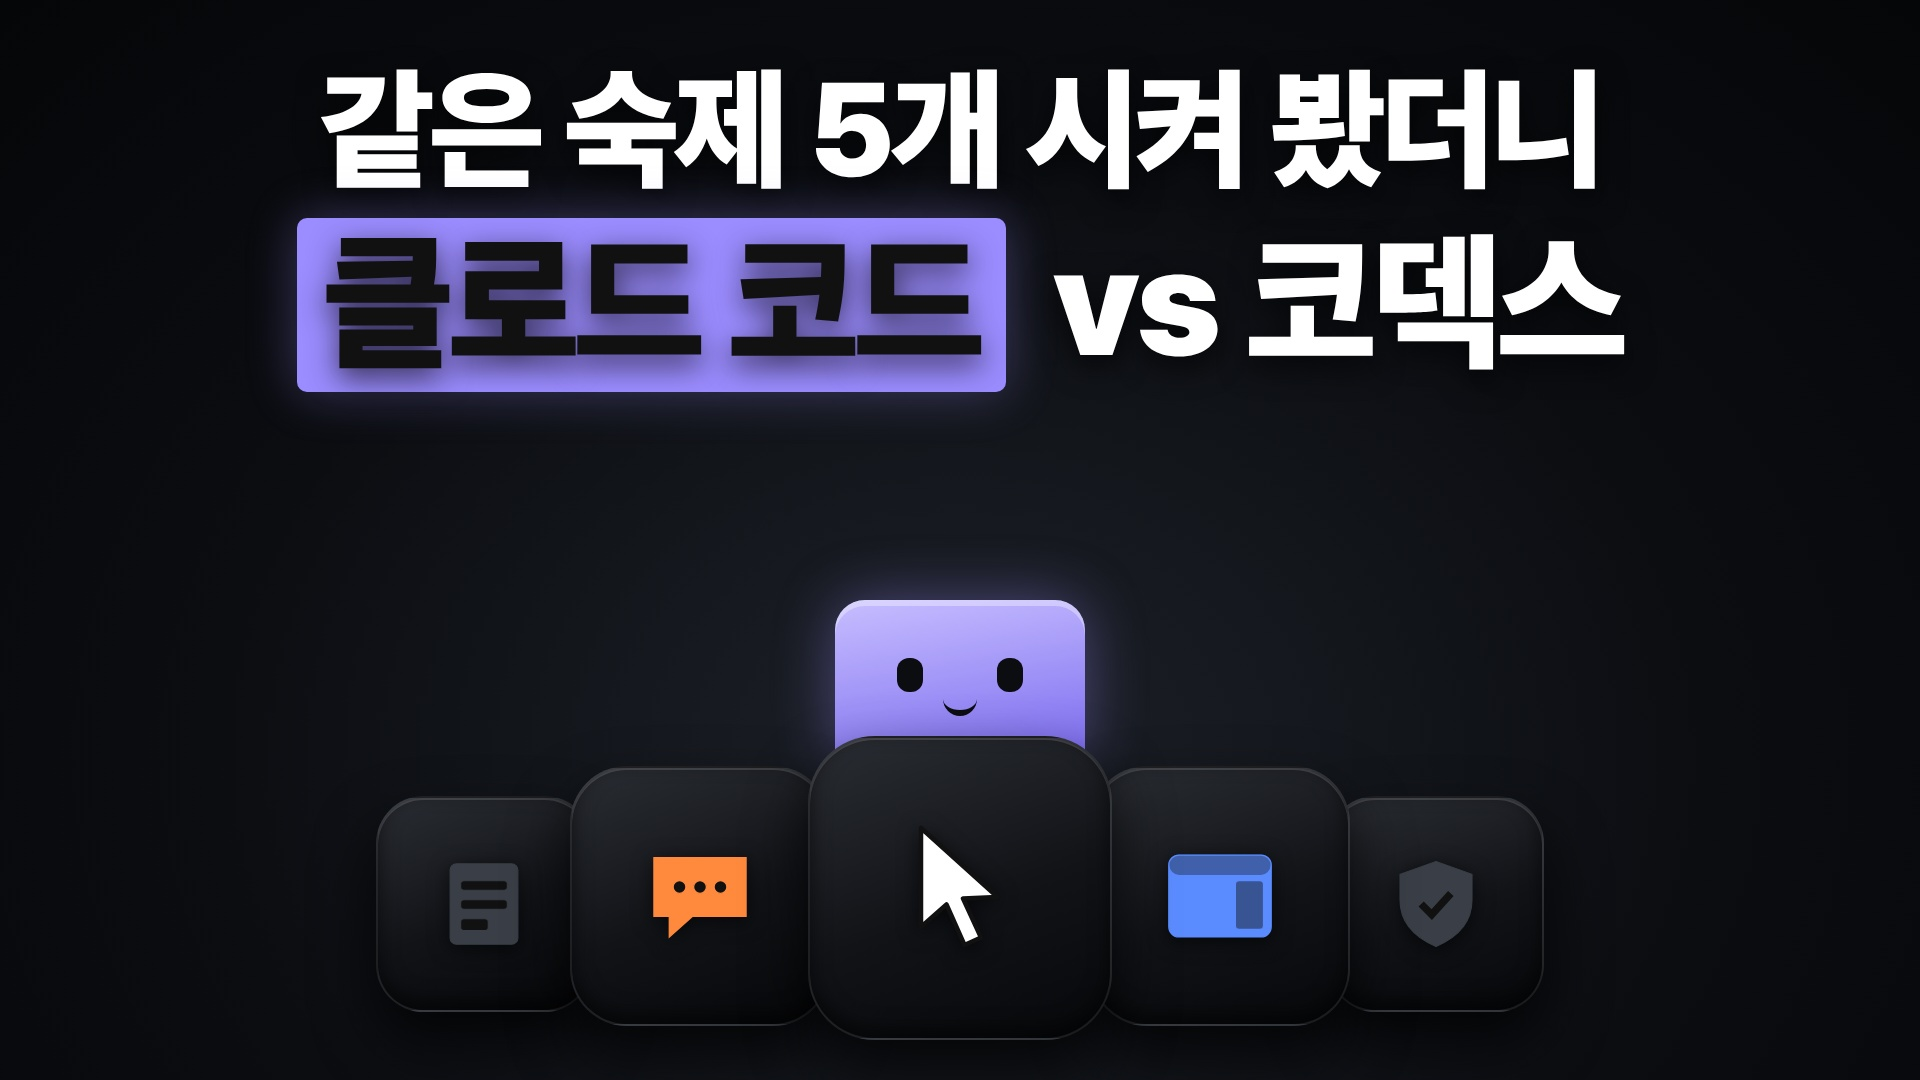
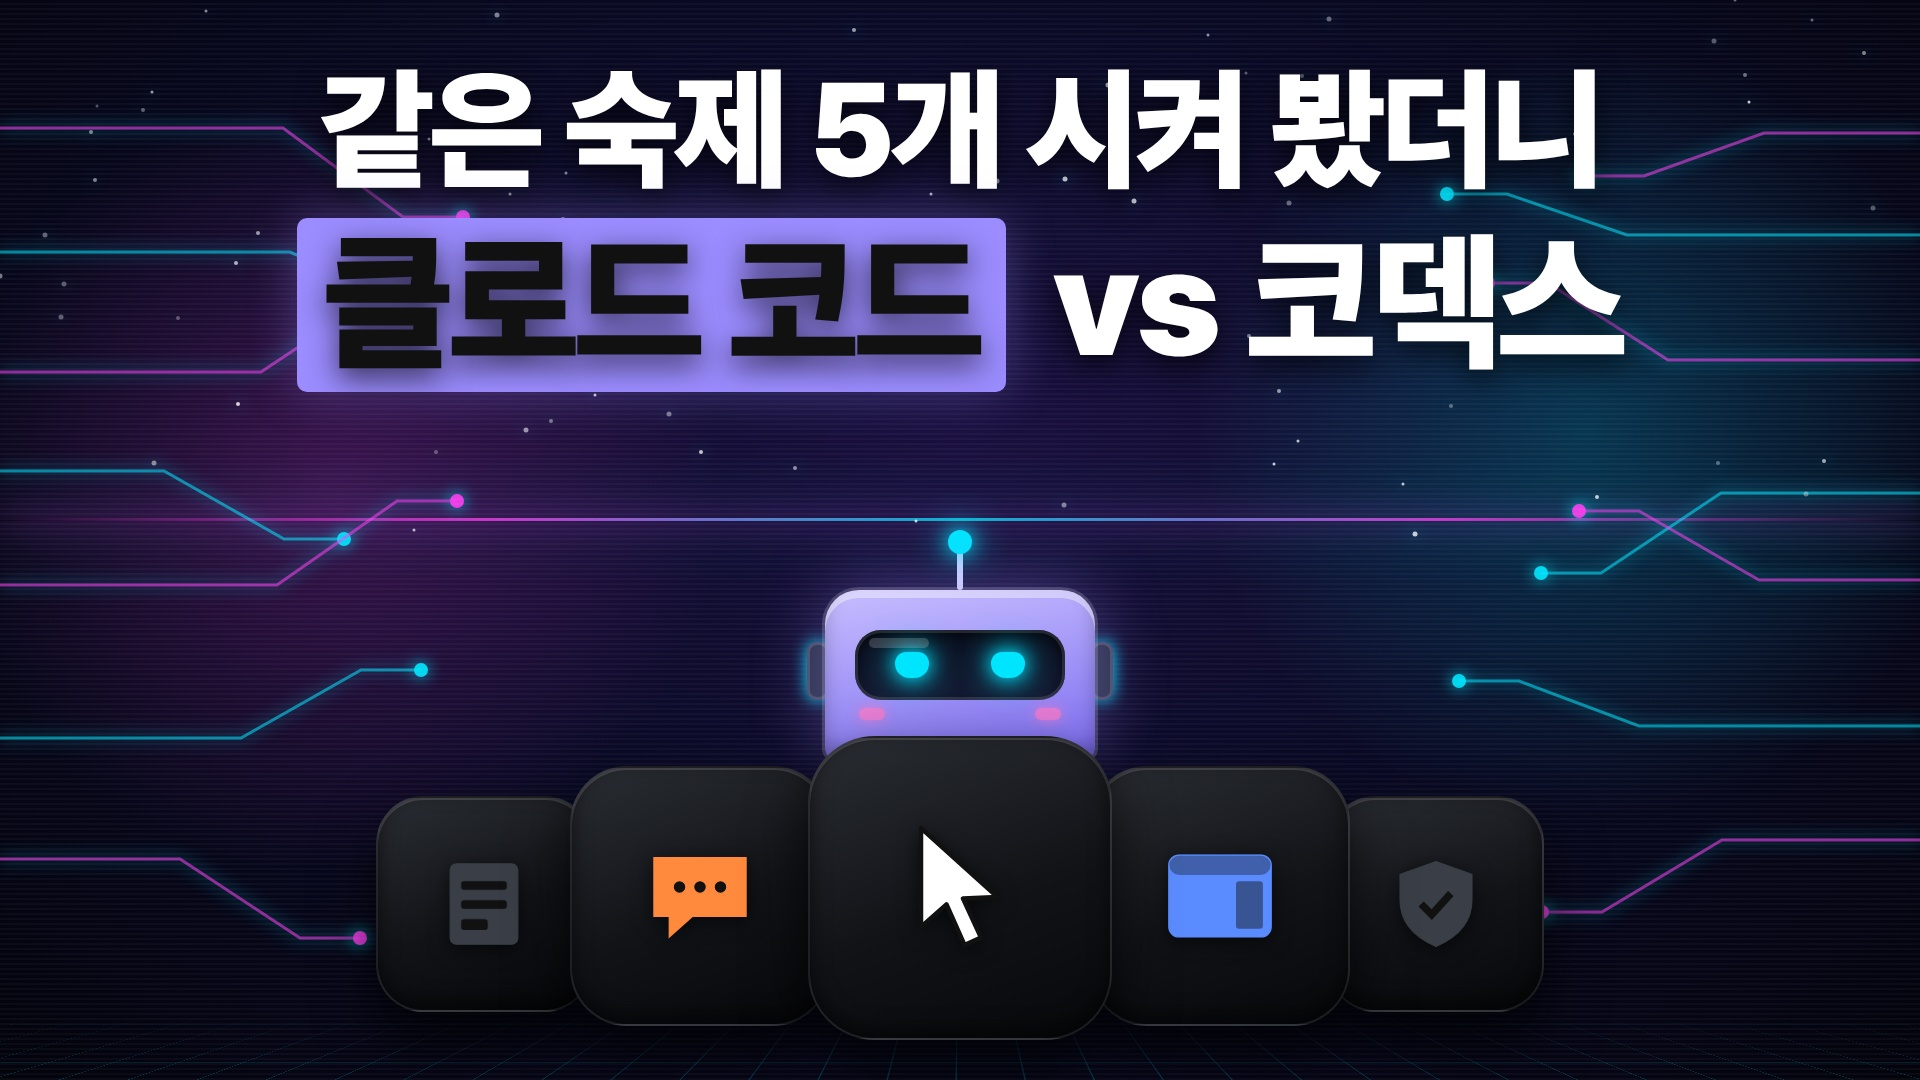
코덱스 비교 v4: 사이버 배경·클로드봇 v2 썸네일(thumbnail.py bg_style cyber · bot v2)
Claude-Session: https://claude.ai/code/session_01QAwgc5CgfRqDU2a4ySE2yW

diff --git a/facetube/thumbnail.py b/facetube/thumbnail.py
@@ -114,12 +114,69 @@ html,body{{margin:0;width:{W}px;height:{H}px;overflow:hidden;font-family:K,sans-
 #pal i{{position:absolute;top:58px;width:26px;height:34px;background:#0b0d11;border-radius:12px}}
 #pal i:first-child{{left:62px}} #pal i:last-child{{right:62px}}
 #pal b{{position:absolute;top:96px;left:50%;transform:translateX(-50%);width:34px;height:14px;border-bottom:6px solid #0b0d11;border-radius:0 0 20px 20px}}
+{_cyber_css(t, accent) if t.get('bg_style') == 'cyber' else ''}{_bot2_css(t) if t.get('bot') == 'v2' else ''}
 </style></head><body>
+{_cyber_html(t) if t.get('bg_style') == 'cyber' else ''}
 <div id="top"><div><span class="l" id="l1">{_mk(t.get('line1', ''), accent)}</span></div><div><span class="l" id="l2">{l2}</span></div><div>{mid_line}</div></div>
-{'<div id="pal"><i></i><b></b><i></i></div>' if t.get('mascot', True) else ''}
+{(_BOT2_HTML if t.get('bot') == 'v2' else '<div id="pal"><i></i><b></b><i></i></div>') if t.get('mascot', True) else ''}
 <div id="row">{''.join(cells)}</div>
 <script>for(const id of ['l1','l2','lm']){{const e=document.getElementById(id);if(!e)continue;let f=parseFloat(getComputedStyle(e).fontSize);while(e.scrollWidth>{W - 160}&&f>60){{f-=4;e.style.fontSize=f+'px'}}}}</script>
 </body></html>"""
+
+
+# ── 사이버 배경(2026-11-05 현철님: "썸네일을 사이버틱하게") · 클로드봇 v2(바이저·안테나·귀·볼 불빛)
+def _cyber_css(t, accent):
+    c1 = t.get("cyber_c1", "#00E5FF"); c2 = t.get("cyber_c2", "#FF3DF2")
+    return f"""
+html,body{{background:radial-gradient(ellipse at 50% 40%,{t.get('cyber_bg1', '#1A1040')} 0%,{t.get('cyber_bg2', '#0A0A26')} 45%,#03030C 100%)!important}}
+#cy{{position:absolute;inset:0;overflow:hidden}}
+#cy .floor{{position:absolute;left:-30%;right:-30%;bottom:-8%;height:62%;transform:perspective(700px) rotateX(62deg);transform-origin:50% 100%;
+  background-image:linear-gradient({c1}55 2px,transparent 2px),linear-gradient(90deg,{c1}55 2px,transparent 2px);background-size:90px 90px;
+  -webkit-mask-image:linear-gradient(to top,#000 10%,transparent 85%);mask-image:linear-gradient(to top,#000 10%,transparent 85%)}}
+#cy .hz{{position:absolute;left:0;right:0;top:48%;height:3px;background:linear-gradient(90deg,transparent,{c2},{c1},{c2},transparent);box-shadow:0 0 30px {c2},0 0 60px {c1};opacity:.75}}
+#cy .glowL{{position:absolute;left:-10%;top:10%;width:55%;height:70%;background:radial-gradient(circle,{c2}33,transparent 60%)}}
+#cy .glowR{{position:absolute;right:-10%;top:5%;width:55%;height:70%;background:radial-gradient(circle,{c1}33,transparent 60%)}}
+#cy .scan{{position:absolute;inset:0;background:repeating-linear-gradient(0deg,rgba(255,255,255,.035) 0 2px,transparent 2px 5px)}}
+#cy svg{{position:absolute;inset:0}}
+"""
+
+def _cyber_html(t):
+    import random
+    c1 = t.get("cyber_c1", "#00E5FF"); c2 = t.get("cyber_c2", "#FF3DF2")
+    r = random.Random(11); paths = []
+    for side in (0, 1):                                   # 양옆 회로선(가운데 글자는 피함)
+        for k in range(7):
+            y = 120 + k * 120 + r.randint(-20, 20); x0 = 0 if side == 0 else W
+            dx = r.randint(140, 300); turn = r.randint(40, 90) * (1 if r.random() < .5 else -1)
+            x1 = dx if side == 0 else W - dx; x2 = (x1 + 120) if side == 0 else (x1 - 120)
+            col = c1 if k % 2 else c2
+            paths.append(f'<path d="M{x0},{y} H{x1} L{x2},{y + turn} H{x2 + (60 if side == 0 else -60)}" stroke="{col}" stroke-width="3" fill="none" opacity=".55"/>'
+                         f'<circle cx="{x2 + (60 if side == 0 else -60)}" cy="{y + turn}" r="7" fill="{col}" opacity=".9"/>')
+    dots = "".join(f'<circle cx="{r.randint(0, W)}" cy="{r.randint(0, int(H * .5))}" r="{r.choice([1.5, 2, 2.5])}" fill="#fff" opacity="{r.uniform(.3, .8):.2f}"/>' for _ in range(70))
+    return (f'<div id="cy"><div class="glowL"></div><div class="glowR"></div><div class="floor"></div><div class="hz"></div>'
+            f'<svg viewBox="0 0 {W} {H}" width="{W}" height="{H}" style="filter:drop-shadow(0 0 8px {c1})">{"".join(paths)}{dots}</svg><div class="scan"></div></div>')
+
+def _bot2_css(t):
+    body = t.get("pal_bg", "linear-gradient(170deg,#C7BEFF,#7C6CF0)"); glow = t.get("pal_glow", "rgba(155,140,255,.45)")
+    eye = t.get("bot_eye", "#00E5FF")
+    return f"""
+#bot{{position:absolute;left:50%;bottom:{40 + 280}px;transform:translateX(-50%);width:270px;height:170px}}
+#bot .hd{{position:absolute;inset:0;border-radius:34px 34px 12px 12px;background:{body};
+  box-shadow:inset 0 8px 0 rgba(255,255,255,.4),inset 0 -10px 18px rgba(0,0,0,.25),0 0 70px {glow},0 0 0 3px rgba(255,255,255,.18)}}
+#bot .vs{{position:absolute;left:30px;right:30px;top:40px;height:70px;border-radius:26px;background:linear-gradient(180deg,#0B0E1E,#151A33);
+  box-shadow:inset 0 0 0 3px rgba(255,255,255,.12),inset 0 6px 14px rgba(0,0,0,.6)}}
+#bot .vs::after{{content:"";position:absolute;left:14px;top:8px;width:60px;height:10px;border-radius:6px;background:rgba(255,255,255,.18)}}
+#bot .ey{{position:absolute;top:22px;width:34px;height:26px;border-radius:14px 14px 18px 18px;background:{eye};box-shadow:0 0 18px {eye},0 0 36px {eye}}}
+#bot .ey.l{{left:40px}} #bot .ey.r{{right:40px}}
+#bot .ch{{position:absolute;top:118px;width:26px;height:12px;border-radius:8px;background:#FF7AC8;opacity:.75;box-shadow:0 0 14px #FF7AC8}}
+#bot .ch.l{{left:34px}} #bot .ch.r{{right:34px}}
+#bot .ear{{position:absolute;top:52px;width:22px;height:58px;border-radius:10px;background:#2A2F45;box-shadow:inset 0 0 0 3px rgba(255,255,255,.15),0 0 16px {eye}}}
+#bot .ear.l{{left:-18px}} #bot .ear.r{{right:-18px}}
+#bot .an{{position:absolute;left:50%;top:-46px;width:6px;height:46px;margin-left:-3px;background:#D8D4FF;border-radius:3px}}
+#bot .an::after{{content:"";position:absolute;left:50%;top:-14px;width:24px;height:24px;margin-left:-12px;border-radius:50%;background:{eye};box-shadow:0 0 20px {eye},0 0 40px {eye}}}
+"""
+
+_BOT2_HTML = '<div id="bot"><div class="an"></div><div class="ear l"></div><div class="ear r"></div><div class="hd"></div><div class="vs"><div class="ey l"></div><div class="ey r"></div></div><div class="ch l"></div><div class="ch r"></div></div>'
 
 
 def make(proj, out_dir, proj_dir=".", log=print):

diff --git a/release/클로드코드_vs_코덱스/버전기록.md b/release/클로드코드_vs_코덱스/버전기록.md
@@ -5,3 +5,4 @@
 | v1 | 2026-11-05 | 7:44 | 음성불일치 11 · 끊김 2 · 멈춤 0 · 검은화면 0 · 개인정보 0 · 자막 0 | 첫 풀영상: 클로드 코드 vs 코덱스 약 10분, 참고 영상 3편 합침, 5라운드 점수판·새 화면 모양(보랏빛·번지는 빛·테두리·기울기) |
 | v2 | 2026-11-05 | 9:33 | 음성불일치 9 · 끊김 2 · 멈춤 0 · 검은화면 0 · 개인정보 0 · 자막 0 | v1 검수 반영: 7분 44초로 짧아 10분 목표에 맞춰 장면 10개 추가(권한·샌드박스, 기억량, 사용량 한도, 최종 발표 장면, 처음 시작 순서), '1.24달러' 읽기 고침 |
 | v3 | 2026-11-05 | 9:37 | 음성불일치 11 · 끊김 1 · 멈춤 0 · 검은화면 0 · 개인정보 0 · 자막 0 | v2 검수 반영: 5라운드 '둘 다 세 개를' 소리 빠짐(1초 무음) → '결과는요, 둘 다 숨은 버그를 전부 찾아냈어요'로 고쳐 다시 녹음 |
+| v4 | 2026-11-05 | 9:37 | 음성불일치 11 · 끊김 1 · 멈춤 0 · 검은화면 0 · 개인정보 0 · 자막 0 | 썸네일만 바꿈: 사이버틱 배경(네온 회로·격자 바닥·스캔라인)·클로드봇 업그레이드(바이저·안테나·귀·볼 불빛), 글자·폰트 그대로 — 영상·설명란은 v3와 같음 |
